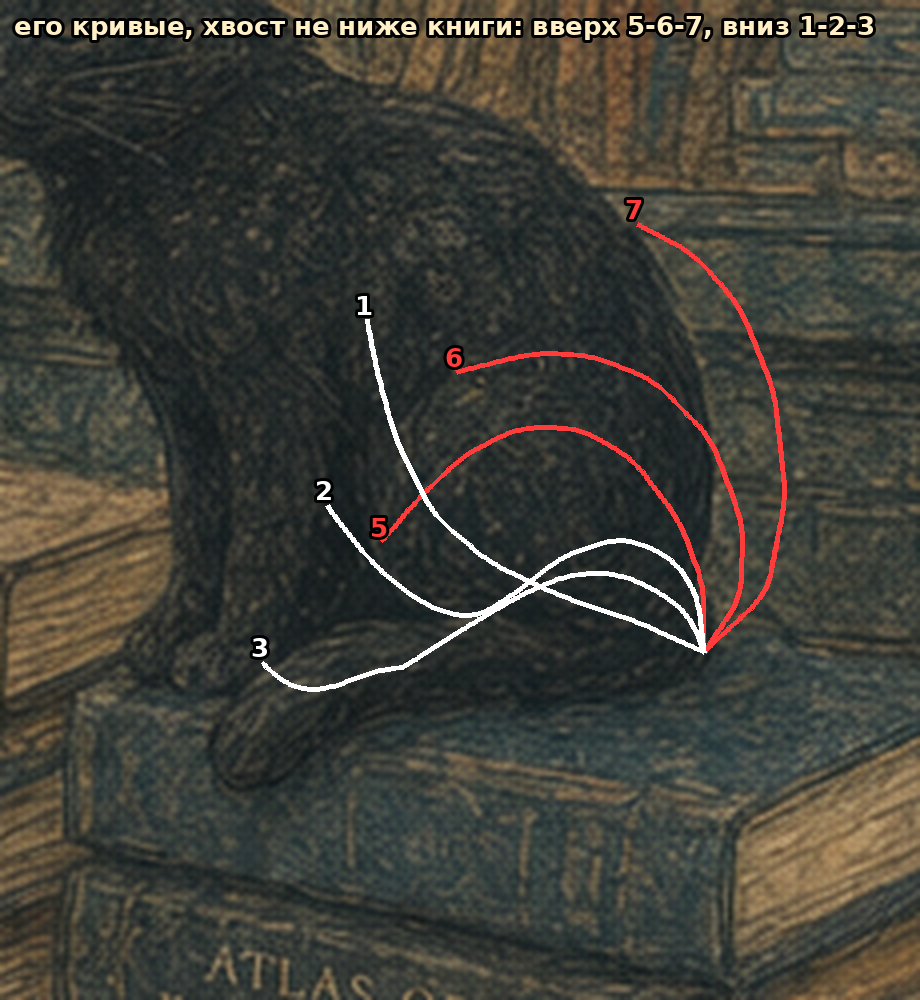
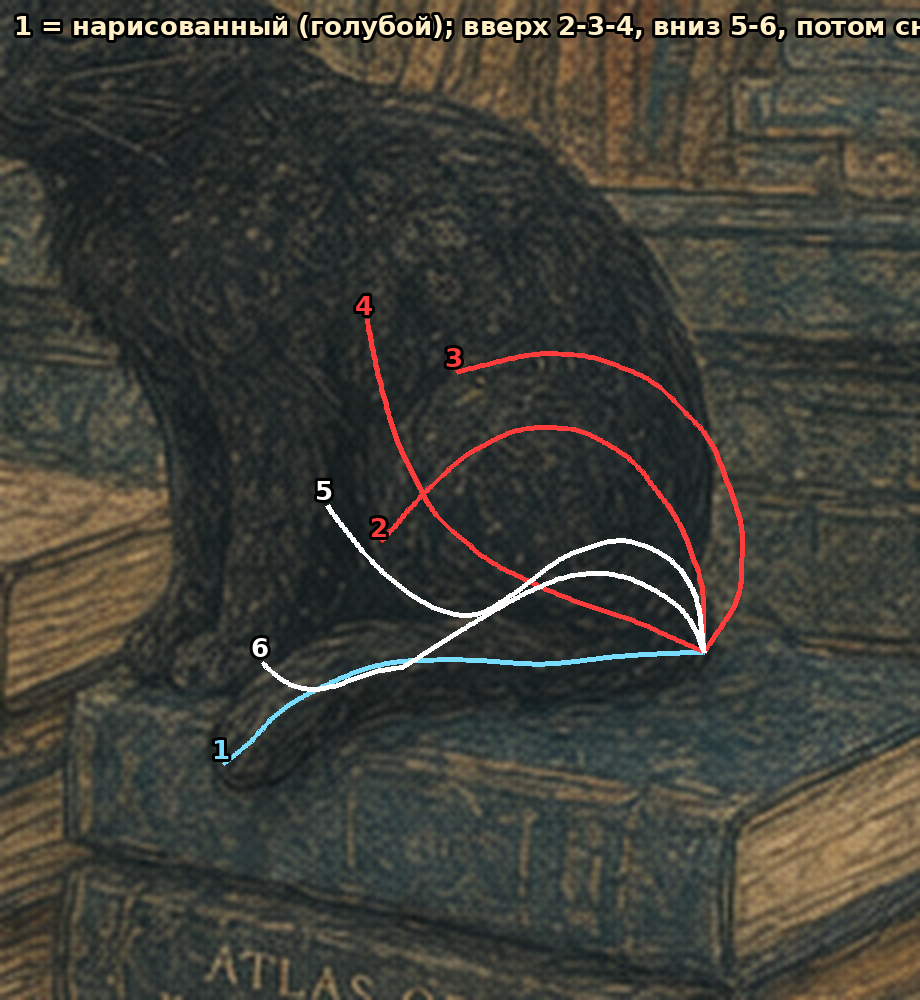
Хвост: 1 = нарисованный, без поз за корпус
Claude-Session: https://claude.ai/code/session_01QRci8T51BY6ctX5Dmkwj14

diff --git a/tools/proby/hvost_buzan_poverhnost.py b/tools/proby/hvost_buzan_poverhnost.py
@@ -20,15 +20,17 @@ def on_surface(th):
             a += math.radians(1) if math.cos(a) < 0 else -math.radians(1)
         out[j] = a; p = q
     return out
-UPP = [5, 6, 7]; DOWNP = [1, 2, 3]
+UPP = [5, 6, 1]; DOWNP = [2, 3]
+OURS = [('1', None), ('2', 5), ('3', 6), ('4', 1), ('5', 2), ('6', 3)]   # наш номер — его поза; 1 = нарисованный хвост
 SP = {k: on_surface(POSE[k]) for k in UPP + DOWNP}
 if MODE9_ == 'lines':
     Z = 4; im = Image.fromarray(np.clip(O, 0, 255).astype(np.uint8)).resize(((x1 - x0) * Z, (y1 - y0) * Z), Image.LANCZOS)
     d = ImageDraw.Draw(im); fnt = ImageFont.truetype('/usr/share/fonts/truetype/dejavu/DejaVuSans-Bold.ttf', 26)
-    for k in UPP + DOWNP:
-        col = (255, 60, 60) if k in UPP else (255, 255, 255)
-        Pp = (build_p(SP[k], np.ones(len(s))) - [x0, y0]) * Z
+    for nm, k in OURS:
+        th_ = th0 if k is None else SP[k]
+        col = (120, 220, 255) if k is None else (255, 60, 60) if k in UPP else (255, 255, 255)
+        Pp = (build_p(th_, np.ones(len(s))) - [x0, y0]) * Z
         d.line([tuple(p) for p in Pp], fill=col, width=5, joint='curve')
-        d.text(tuple(Pp[-1] + [-12, -30]), str(k), fill=col, font=fnt, stroke_width=3, stroke_fill=(0, 0, 0))
-    d.text((14, 10), 'его кривые, хвост не ниже книги: вверх 5-6-7, вниз 1-2-3', fill=(255, 240, 200), font=fnt, stroke_width=3, stroke_fill=(0, 0, 0))
+        d.text(tuple(Pp[-1] + [-12, -30]), nm, fill=col, font=fnt, stroke_width=3, stroke_fill=(0, 0, 0))
+    d.text((14, 10), '1 = нарисованный (голубой); вверх 2-3-4, вниз 5-6, потом снова 1', fill=(255, 240, 200), font=fnt, stroke_width=3, stroke_fill=(0, 0, 0))
     im.save(OUT9_)

diff --git a/PROJECT_NOTES.md b/PROJECT_NOTES.md
@@ -2725,3 +2725,4 @@ Shorts — НЕ делаем. Названия/шрифт/подвал — не 
 - Автор: «ты точно у аниматоров взял? не придумывай, срисуй у кого-то»; у основания хвост не закручивается от самой точки крепления — дуга начинается с части у основания. ЧЕСТНО: в hvost_profi принцип был из источников, а числа и распределение гибкости — мои. Теперь срисовано: в её ролике Micah Buzan «How To Animate a TAIL» (uploads 58aa4504, 1:32) — схема из 8 пронумерованных поз с одним основанием. Позы сняты по сетке (tools/proby/hvost_buzan.py), его кадр повёрнут так, чтобы его лежачая поза 4 легла как наш хвост; формы как есть, длина наша. Сравнение: table_drafts/hvost_buzan.png (слева его кадр, справа на нашем коте). У него хвост машет влево-вправо, поэтому 7–8 уходят вправо за кота — для подъёма, возможно, верх = 7. Ждём её.
 - Автор: вариант Buzan не подходит — не учтена поверхность: у него хвост в воздухе, позы 3–4 уходят ниже обложки книги, у нас кот сидит на книге (хвост не может опускаться ниже её верха).
 - Автор: «возьми танец хвоста и приделай к нашему коту — те кривые, что подходят». Сделано: tools/proby/hvost_buzan_poverhnost.py — его кривые, но хвост не ниже книги (где линия ныряет вниз, звено поворачивается вверх, пока не ляжет на обложку; длина та же). Вверх его 5-6-7, вниз 1-2-3, потом наш лежачий. Линии: table_drafts/hvost_buzan_poverhnost.png. Ждём её.
+- Автор: 1 = исходник (нарисованный хвост); 7 (за корпус) — неправильно, «гуттаперчевых котов не бывает». Теперь наш порядок: 1 нарисованный → 2 (его 5) → 3 (его 6) → 4 верх (его 1) → 5 (его 2) → 6 (его 3, на обложке) → 1. Его 7 и 8 убраны.
